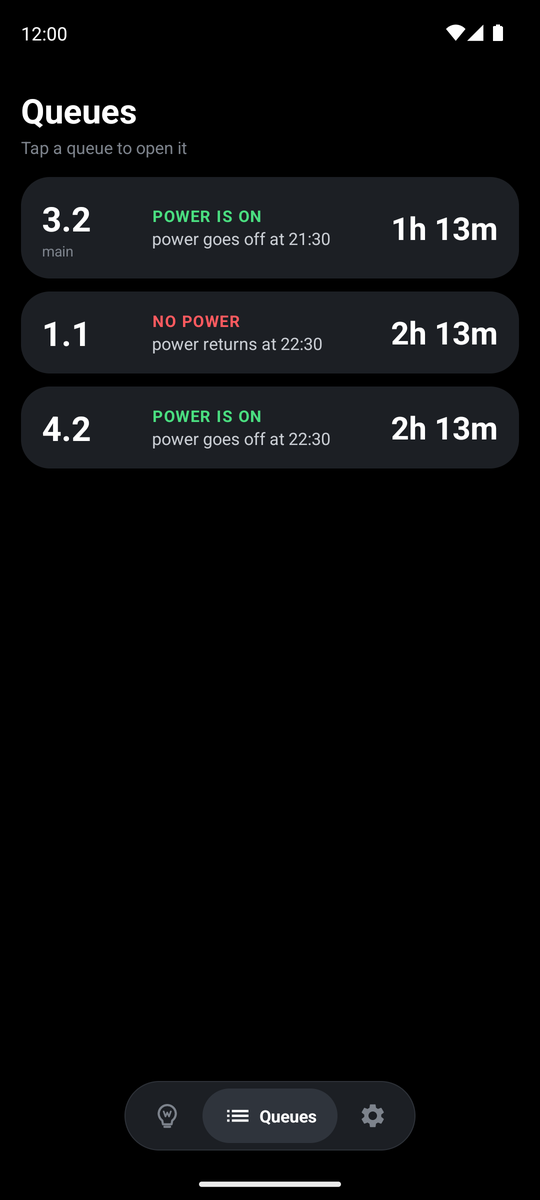
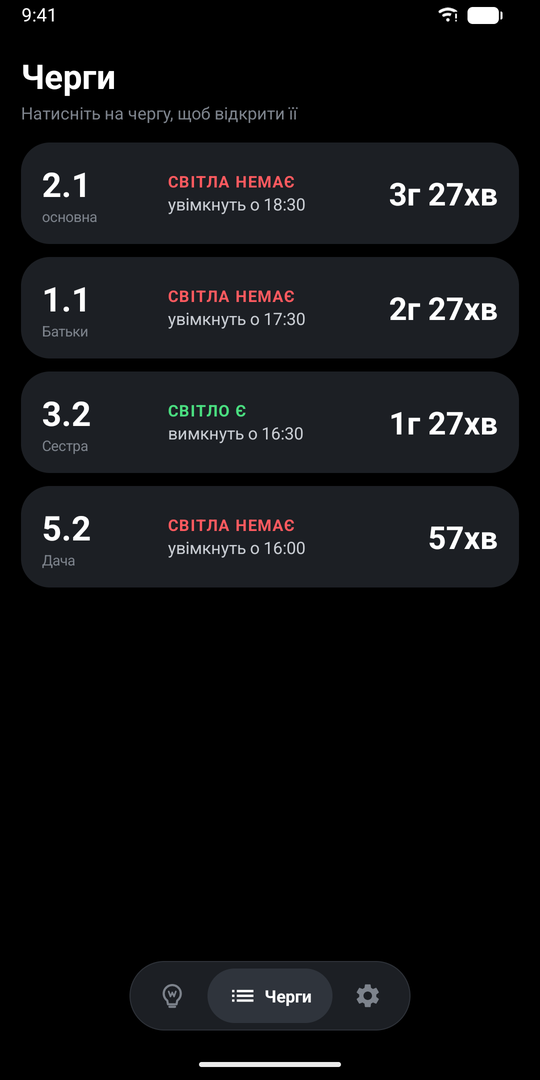
Google Play graphics: screenshots, feature graphic; fresh screenshots for the README
Screenshots of the phone (1080x2160, Ukrainian) and of the watch (454x454) taken
with the current build: regions, queue names, the new rings of the widgets, the
wizard. The feature graphic is drawn by store/render_feature_graphic.py from them
(Ukrainian, Russian, English). The README and the project page use the same
screenshots, smaller.

diff --git a/store/render_feature_graphic.py b/store/render_feature_graphic.py
@@ -1,0 +1,96 @@
+#!/usr/bin/env python3
+"""Draws the Google Play feature graphic (1024x500, PNG without transparency) in Ukrainian, Russian and English.
+
+Uses the real screenshots in store/screenshots (the phone's "Now" screen and the watch tile) and the icon.
+  python3 store/render_feature_graphic.py        ->  store/feature-graphic-{uk,ru,en}.png"""
+import os
+from PIL import Image, ImageChops, ImageDraw, ImageFilter, ImageFont
+
+ROOT = os.path.dirname(os.path.dirname(os.path.abspath(__file__)))
+FONT = '/usr/share/fonts/truetype/noto/NotoSans-%s.ttf'
+W, H = 1024, 500
+TEXT = {
+    'uk': ('Графік відключень світла\nна телефоні та годиннику', 'Wear OS · Android'),
+    'ru': ('График отключений света\nна телефоне и часах', 'Wear OS · Android'),
+    'en': ('Power outage schedule\non your phone and watch', 'Wear OS · Android'),
+}
+
+
+def font(style, size):
+    return ImageFont.truetype(FONT % style, size)
+
+
+def background():
+    bg = Image.new('RGB', (W, H), (11, 14, 18))
+    # a soft green glow behind the icon and a red one behind the devices, like the app's own states
+    glow = Image.new('RGB', (W, H), (0, 0, 0))
+    d = ImageDraw.Draw(glow)
+    d.ellipse((-160, -120, 420, 380), fill=(18, 74, 44))
+    d.ellipse((560, 150, 1180, 700), fill=(70, 24, 28))
+    glow = glow.filter(ImageFilter.GaussianBlur(110))
+    return ImageChops.add(bg, glow)
+
+
+def rounded(im, radius):
+    mask = Image.new('L', im.size, 0)
+    ImageDraw.Draw(mask).rounded_rectangle((0, 0, im.width - 1, im.height - 1), radius, fill=255)
+    out = im.convert('RGBA')
+    out.putalpha(mask)
+    return out
+
+
+def shadow(layer, offset=(0, 14), blur=22, alpha=170):
+    sh = Image.new('RGBA', layer.size, (0, 0, 0, 0))
+    sh.putalpha(layer.getchannel('A').point(lambda v: v * alpha // 255))
+    pad = blur * 3
+    big = Image.new('RGBA', (layer.width + 2 * pad, layer.height + 2 * pad), (0, 0, 0, 0))
+    big.paste(sh, (pad, pad))
+    return big.filter(ImageFilter.GaussianBlur(blur)), (offset[0] - pad, offset[1] - pad)
+
+
+def paste_with_shadow(canvas, layer, xy):
+    sh, (dx, dy) = shadow(layer)
+    canvas.alpha_composite(sh, (xy[0] + dx, xy[1] + dy))
+    canvas.alpha_composite(layer, xy)
+
+
+def draw(lang):
+    canvas = background().convert('RGBA')
+
+    # the phone: the top of the "Now" screen, bleeding off the bottom edge
+    shot = Image.open(os.path.join(ROOT, 'store/screenshots/phone/01-now.png')).convert('RGB')
+    pw = 236
+    phone = shot.resize((pw, round(shot.height * pw / shot.width)), Image.LANCZOS)
+    frame = Image.new('RGBA', (pw + 12, phone.height + 12), (0, 0, 0, 0))
+    ImageDraw.Draw(frame).rounded_rectangle((0, 0, frame.width - 1, frame.height - 1), 34, fill=(36, 40, 47, 255))
+    frame.alpha_composite(rounded(phone, 28), (6, 6))
+    paste_with_shadow(canvas, frame, (592, 52))
+
+    # the watch: the tile, round
+    tile = Image.open(os.path.join(ROOT, 'store/screenshots/wear/03-tile.png')).convert('RGB')
+    d = 250
+    tile = tile.resize((d, d), Image.LANCZOS).convert('RGBA')
+    mask = Image.new('L', (d, d), 0)
+    ImageDraw.Draw(mask).ellipse((0, 0, d - 1, d - 1), fill=255)
+    tile.putalpha(mask)
+    ring = Image.new('RGBA', (d + 16, d + 16), (0, 0, 0, 0))
+    ImageDraw.Draw(ring).ellipse((0, 0, ring.width - 1, ring.height - 1), fill=(52, 57, 66, 255))
+    ring.alpha_composite(tile, (8, 8))
+    paste_with_shadow(canvas, ring, (738, 208))
+
+    # the words
+    icon = Image.open(os.path.join(ROOT, 'store/icon_round.png')).convert('RGBA').resize((112, 112), Image.LANCZOS)
+    canvas.alpha_composite(icon, (60, 58))
+    draw_ = ImageDraw.Draw(canvas)
+    draw_.text((60, 188), 'Wattlo', font=font('Bold', 92), fill=(255, 255, 255))
+    title, sub = TEXT[lang]
+    draw_.multiline_text((62, 312), title, font=font('Regular', 32), fill=(196, 203, 212), spacing=8)
+    draw_.text((62, 418), sub, font=font('Bold', 24), fill=(74, 222, 128))
+    return canvas.convert('RGB')
+
+
+if __name__ == '__main__':
+    for lang in TEXT:
+        out = os.path.join(ROOT, f'store/feature-graphic-{lang}.png')
+        draw(lang).save(out, optimize=True)
+        print(out)
